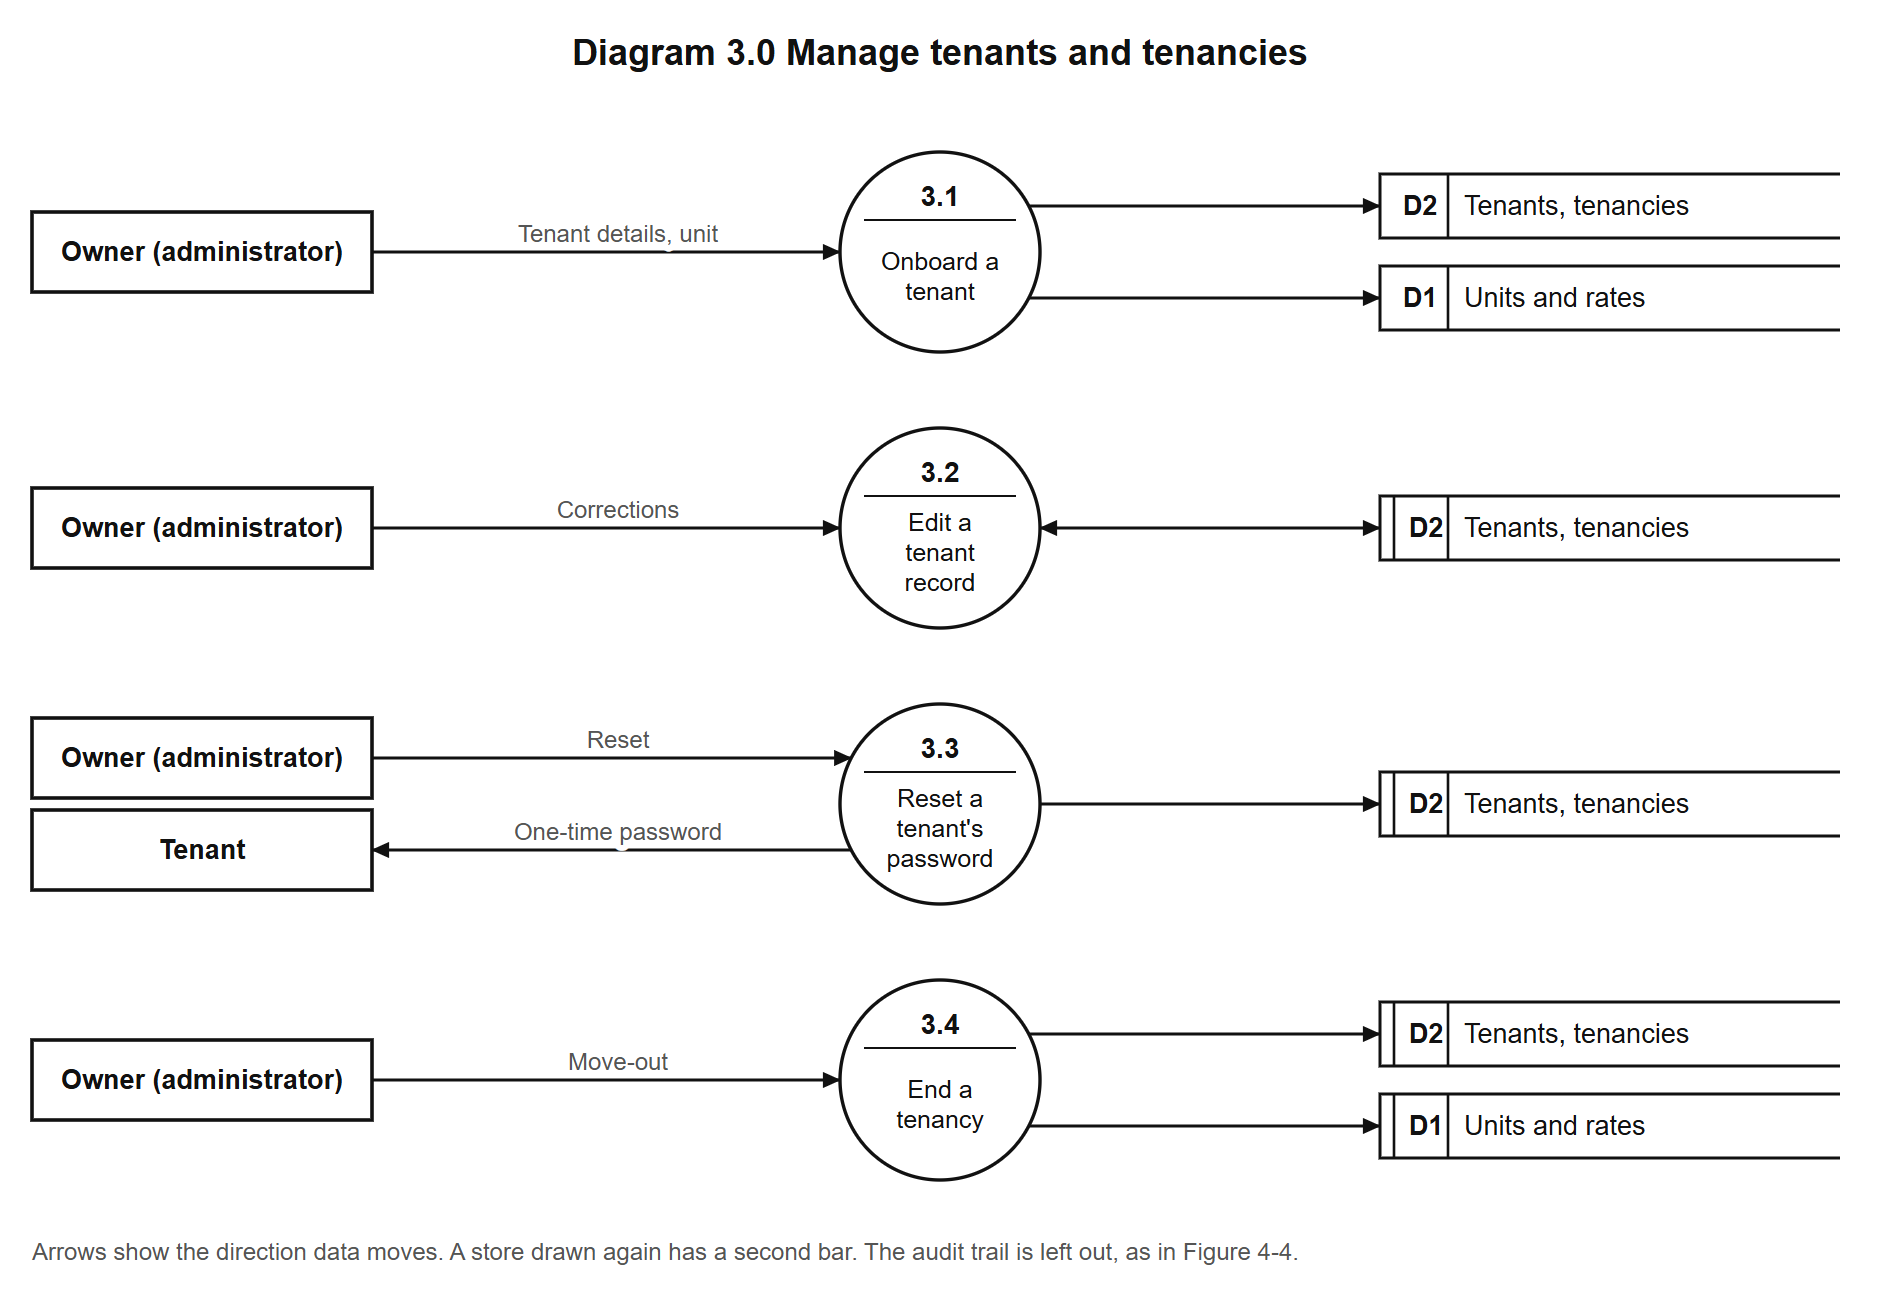
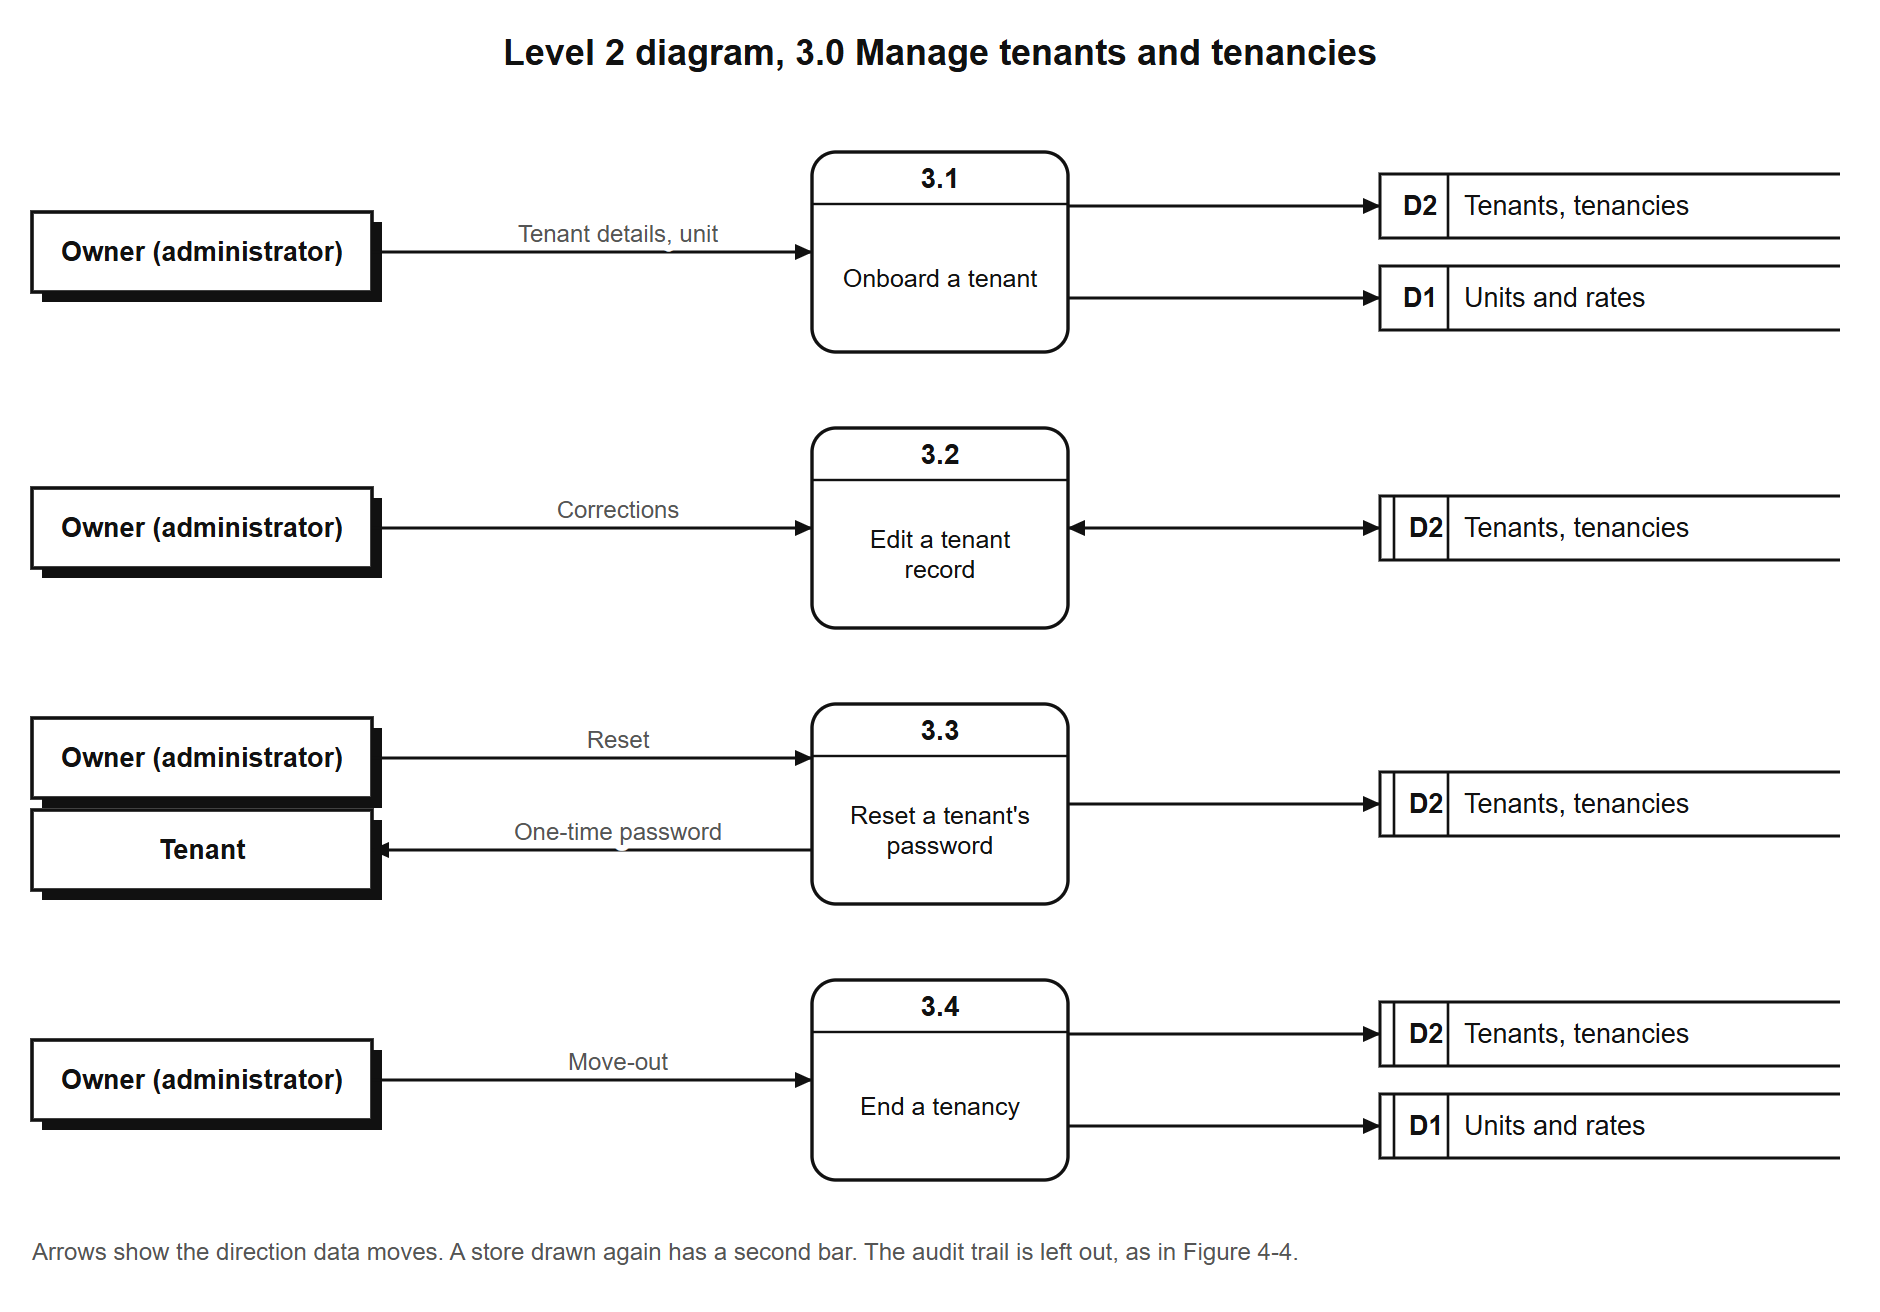
Data flow diagrams in Gane and Sarson notation, down to Level 2 for all eight processes
The IT 124 pre-defense clearance (Form 2, item 13, and Form 3B) asks for a data flow diagram in Gane
and Sarson notation down to Level 2. Ours were Yourdon-DeMarco circles, and Appendix F opened only
four of the eight processes. Processes are now rounded rectangles with the number in a top band and
external entities are shaded squares, in the context diagram, Level 1 and every Level 2 diagram.
Appendix F gains Level 2 diagrams for 2.0, 6.0, 7.0 and 8.0, read from the screens' calls in
SCREEN_CONTRACT.md, each touching only the stores its parent touches in Figure 7. Chapter 4 names
the notation and its symbols; the glossary and walkthrough follow.

diff --git a/FINAL/appendices/APPENDIX_F_CHILD_DATA_FLOW_DIAGRAMS.md b/FINAL/appendices/APPENDIX_F_CHILD_DATA_FLOW_DIAGRAMS.md
@@ -1,23 +1,39 @@
-# APPENDIX F: DATA FLOW DIAGRAMS (CHILD DIAGRAMS)
+# APPENDIX F: DATA FLOW DIAGRAMS (LEVEL 2)
 
-Figures F-1 to F-4 open four of the eight processes of the level 1 diagram (Figure 4-4) into their
-steps. Each step is one operation the system's screens perform, and the stores and external entities
-keep the names of Figure 4-4. Processes 2.0 (manage units and rates), 6.0 (record expenses), 7.0
-(produce reports) and 8.0 (sign in and manage one's own account) each perform a single operation and
-are not opened further.
+Figures F-1 to F-8 open each of the eight processes of the level 1 diagram (Figure 4-4) into its steps,
+in the Gane and Sarson notation used for Figures 4-3 and 4-4. A rounded rectangle is a process, with its
+number in the band across the top. A rectangle open on the right is a data store. A shaded square is
+an external entity. Each step is one operation the system's screens perform. The stores and external
+entities keep the names of Figure 4-4, and each diagram uses only the stores its process uses there.
 
-*Figure F-1. Diagram 1.0, handle inquiries.*
+*Figure F-1. Level 2 diagram of process 1.0, handle inquiries.*
 
 ![Diagram 1.0](<../../docs/FINAL MANUSCRIPT/figures/appendix-f-dfd-1-inquiries.png>)
 
-*Figure F-2. Diagram 3.0, manage tenants and tenancies.*
+*Figure F-2. Level 2 diagram of process 2.0, manage units and rates.*
+
+![Diagram 2.0](<../../docs/FINAL MANUSCRIPT/figures/appendix-f-dfd-2-units-and-rates.png>)
+
+*Figure F-3. Level 2 diagram of process 3.0, manage tenants and tenancies.*
 
 ![Diagram 3.0](<../../docs/FINAL MANUSCRIPT/figures/appendix-f-dfd-3-tenancies.png>)
 
-*Figure F-3. Diagram 4.0, bill and record payments.*
+*Figure F-4. Level 2 diagram of process 4.0, bill and record payments.*
 
 ![Diagram 4.0](<../../docs/FINAL MANUSCRIPT/figures/appendix-f-dfd-4-billing-and-payments.png>)
 
-*Figure F-4. Diagram 5.0, manage repair requests.*
+*Figure F-5. Level 2 diagram of process 5.0, manage repair requests.*
 
 ![Diagram 5.0](<../../docs/FINAL MANUSCRIPT/figures/appendix-f-dfd-5-repair-requests.png>)
+
+*Figure F-6. Level 2 diagram of process 6.0, record expenses.*
+
+![Diagram 6.0](<../../docs/FINAL MANUSCRIPT/figures/appendix-f-dfd-6-expenses.png>)
+
+*Figure F-7. Level 2 diagram of process 7.0, produce reports.*
+
+![Diagram 7.0](<../../docs/FINAL MANUSCRIPT/figures/appendix-f-dfd-7-reports.png>)
+
+*Figure F-8. Level 2 diagram of process 8.0, sign in and manage one's own account.*
+
+![Diagram 8.0](<../../docs/FINAL MANUSCRIPT/figures/appendix-f-dfd-8-account.png>)

diff --git a/FINAL/_src/appendices/APPENDIX_F_CHILD_DATA_FLOW_DIAGRAMS.md b/FINAL/_src/appendices/APPENDIX_F_CHILD_DATA_FLOW_DIAGRAMS.md
@@ -1,23 +1,39 @@
-# APPENDIX F: DATA FLOW DIAGRAMS (CHILD DIAGRAMS)
+# APPENDIX F: DATA FLOW DIAGRAMS (LEVEL 2)
 
-Figures F-1 to F-4 open four of the eight processes of the level 1 diagram (Figure 7) into their
-steps. Each step is one operation the system's screens perform, and the stores and external entities
-keep the names of Figure 7. Processes 2.0 (manage units and rates), 6.0 (record expenses), 7.0
-(produce reports) and 8.0 (sign in and manage one's own account) each perform a single operation and
-are not opened further.
+Figures F-1 to F-8 open each of the eight processes of the level 1 diagram (Figure 7) into its steps,
+in the Gane and Sarson notation used for Figures 6 and 7. A rounded rectangle is a process, with its
+number in the band across the top. A rectangle open on the right is a data store. A shaded square is
+an external entity. Each step is one operation the system's screens perform. The stores and external
+entities keep the names of Figure 7, and each diagram uses only the stores its process uses there.
 
-*Figure F-1. Diagram 1.0, handle inquiries.*
+*Figure F-1. Level 2 diagram of process 1.0, handle inquiries.*
 
 ![Diagram 1.0](figures/appendix-f-dfd-1-inquiries.png)
 
-*Figure F-2. Diagram 3.0, manage tenants and tenancies.*
+*Figure F-2. Level 2 diagram of process 2.0, manage units and rates.*
+
+![Diagram 2.0](figures/appendix-f-dfd-2-units-and-rates.png)
+
+*Figure F-3. Level 2 diagram of process 3.0, manage tenants and tenancies.*
 
 ![Diagram 3.0](figures/appendix-f-dfd-3-tenancies.png)
 
-*Figure F-3. Diagram 4.0, bill and record payments.*
+*Figure F-4. Level 2 diagram of process 4.0, bill and record payments.*
 
 ![Diagram 4.0](figures/appendix-f-dfd-4-billing-and-payments.png)
 
-*Figure F-4. Diagram 5.0, manage repair requests.*
+*Figure F-5. Level 2 diagram of process 5.0, manage repair requests.*
 
 ![Diagram 5.0](figures/appendix-f-dfd-5-repair-requests.png)
+
+*Figure F-6. Level 2 diagram of process 6.0, record expenses.*
+
+![Diagram 6.0](figures/appendix-f-dfd-6-expenses.png)
+
+*Figure F-7. Level 2 diagram of process 7.0, produce reports.*
+
+![Diagram 7.0](figures/appendix-f-dfd-7-reports.png)
+
+*Figure F-8. Level 2 diagram of process 8.0, sign in and manage one's own account.*
+
+![Diagram 8.0](figures/appendix-f-dfd-8-account.png)

diff --git a/FINAL/STUDY_GUIDE_PAPER_WALKTHROUGH.md b/FINAL/STUDY_GUIDE_PAPER_WALKTHROUGH.md
@@ -896,8 +896,8 @@ The section then has four labelled parts.
 
 **Figure 4-4. Level 1 data flow diagram.**
 - *What it shows*: the system opened into **eight processes** and **six data stores**, in the
-  **Yourdon-DeMarco notation** (circles are processes; open rectangles are stores; boxes are outside
-  parties).
+  **Gane and Sarson notation** (rounded rectangles are processes, rectangles open on the right are
+  stores, shaded squares are outside parties).
 - *How to read it*: processes 1.0 Handle inquiries, 2.0 Manage units and rates, 3.0 Manage tenants and
   tenancies, 4.0 Bill and record payments, 5.0 Manage repair requests, 6.0 Record expenses, 7.0 Produce
   reports, 8.0 Sign in, manage own account. Stores D1 Units and rates, D2 Tenants and tenancies, D3
@@ -1733,10 +1733,9 @@ Agile schedule as it really ran.
 
 **Appendix E. Data Flow Diagram (Level 1).** The same image as Figure 4-4.
 
-**Appendix F. Data Flow Diagrams (Child Diagrams).** Figures F-1 to F-4 open four of the eight level 1
-processes into their steps: **1.0 handle inquiries, 3.0 manage tenants and tenancies, 4.0 bill and
-record payments, 5.0 manage repair requests**. Processes 2.0, 6.0, 7.0 and 8.0 each do one operation, so
-they are not opened. A **child diagram** is a more detailed drawing of one process. It is there to show
+**Appendix F. Data Flow Diagrams (Level 2).** Figures F-1 to F-8 open each of the eight level 1
+processes into its steps, so the diagrams go down to Level 2 as Form 2 item 13 asks. A **Level 2
+diagram** is a more detailed drawing of one process. It is there to show
 the design one level deeper.
 
 **Appendix G. Use Case Diagram.** The same image as Figure 4-5.

diff --git a/FINAL/08_APPENDICES.md b/FINAL/08_APPENDICES.md
@@ -11,7 +11,7 @@ Chapter 4 cites K, M, N and O by letter, so those letters must not change.
 | C | Gantt Chart | The schedule as it ran: the first build, the three iterations, the Module 01 gap, and the dated events | `FINAL/appendices/APPENDIX_C_GANTT_CHART.md` |
 | D | Context Diagram | The as-built context diagram, the same image as Figure 4-3 | `docs/FINAL MANUSCRIPT/figures/figure-6-context-diagram.png` |
 | E | Data Flow Diagram (Level 1) | The as-built level 1 diagram, the same image as Figure 4-4 | `docs/FINAL MANUSCRIPT/figures/figure-7-data-flow-level-1.png` |
-| F | Data Flow Diagram (Child Diagrams) | Processes 1.0, 3.0, 4.0 and 5.0 opened into their steps | `FINAL/appendices/APPENDIX_F_CHILD_DATA_FLOW_DIAGRAMS.md` |
+| F | Data Flow Diagrams (Level 2) | All eight level 1 processes opened into their steps, in Gane and Sarson notation | `FINAL/appendices/APPENDIX_F_CHILD_DATA_FLOW_DIAGRAMS.md` |
 | G | Use Case Diagram | The as-built use case diagram, the same image as Figure 4-5 | `docs/FINAL MANUSCRIPT/figures/figure-8-use-case-diagram.png` |
 | H | Entity-Relationship Diagram | The as-built diagram, the same image as Figure 4-6 | `docs/FINAL MANUSCRIPT/figures/figure-9-entity-relationship.png` |
 | I | Initial Design | Four screens of the first working version, 28 August 2026 (the interface was prototyped in code, Section 3.1.1) | `FINAL/appendices/APPENDIX_I_INITIAL_DESIGN.md` |

diff --git a/FINAL/_src/APPENDICES.md b/FINAL/_src/APPENDICES.md
@@ -11,7 +11,7 @@ Chapter 4 cites K, M, N and O by letter, so those letters must not change.
 | C | Gantt Chart | The schedule as it ran: the first build, the three iterations, the Module 01 gap, and the dated events | `FINAL/appendices/APPENDIX_C_GANTT_CHART.md` |
 | D | Context Diagram | The as-built context diagram, the same image as Figure 6 | `docs/FINAL MANUSCRIPT/figures/figure-6-context-diagram.png` |
 | E | Data Flow Diagram (Level 1) | The as-built level 1 diagram, the same image as Figure 7 | `docs/FINAL MANUSCRIPT/figures/figure-7-data-flow-level-1.png` |
-| F | Data Flow Diagram (Child Diagrams) | Processes 1.0, 3.0, 4.0 and 5.0 opened into their steps | `FINAL/appendices/APPENDIX_F_CHILD_DATA_FLOW_DIAGRAMS.md` |
+| F | Data Flow Diagrams (Level 2) | All eight level 1 processes opened into their steps, in Gane and Sarson notation | `FINAL/appendices/APPENDIX_F_CHILD_DATA_FLOW_DIAGRAMS.md` |
 | G | Use Case Diagram | The as-built use case diagram, the same image as Figure 8 | `docs/FINAL MANUSCRIPT/figures/figure-8-use-case-diagram.png` |
 | H | Entity-Relationship Diagram | The as-built diagram, the same image as Figure 9 | `docs/FINAL MANUSCRIPT/figures/figure-9-entity-relationship.png` |
 | I | Initial Design | Four screens of the first working version, 28 August 2026 (the interface was prototyped in code, Section 3.1.1) | `FINAL/appendices/APPENDIX_I_INITIAL_DESIGN.md` |

diff --git a/FINAL/STUDY_GUIDE_GLOSSARY.md b/FINAL/STUDY_GUIDE_GLOSSARY.md
@@ -724,7 +724,7 @@ never written in any document; a check for them runs before every commit. **Wher
 meaning. **Where:** Table 4-5; App. N.
 
 **Data flow diagram (DFD).** A diagram of processes, data stores and outside parties, and the data
-moving between them. Level 1 has eight processes; child diagrams open four of them. **Where:**
+moving between them. Level 1 has eight processes, and the Level 2 diagrams open all eight. **Where:**
 Figure 4-4; App. E; App. F.
 
 **Data store.** In a DFD, a place data is kept, such as D3, Bills and receipts. **Where:**
@@ -949,8 +949,9 @@ the PWA. **Where:** Table 3-1; Table 4-4.
 **Webhook.** Adyen calling Hivelet's server to report a payment. See Section 4. **Where:**
 `STUDY_GUIDE_CODE.md`, §5.
 
-**Yourdon-DeMarco notation.** The drawing style of the data flow diagrams: circles for processes,
-open boxes for stores. **Where:** Section 4.2.1.
+**Gane and Sarson notation.** The drawing style of the data flow diagrams, the one Form 2 asks for:
+rounded rectangles for processes, rectangles open on the right for stores, shaded squares for outside
+parties. **Where:** Section 4.2.1.
 
 ---
 

diff --git a/FINAL/05_CHAPTER_4_RESULTS_AND_DISCUSSION.md b/FINAL/05_CHAPTER_4_RESULTS_AND_DISCUSSION.md
@@ -155,7 +155,8 @@ equipment beyond the owner's own laptop and phone.
 
 Figure 4-3 is the context diagram: the system as one process, with the four parties outside it and the
 data that passes between them. Figure 4-4 opens it into eight processes and the stores each reads and
-writes, in the Yourdon-DeMarco notation. To trace one path: the owner records a cash receipt through
+writes, in the Gane and Sarson notation: a rounded rectangle is a process, a rectangle open on
+the right is a data store, and a shaded square is a party outside the system. To trace one path: the owner records a cash receipt through
 process 4.0, Bill and record payments, which writes it to store D3, Bills and receipts, and process
 7.0, Produce reports, reads it from there for the Overview and the Excel workbooks. The notifications
 and the audit record are written by nearly every process and are left out of Figure 4-4 for

diff --git a/docs/FINAL MANUSCRIPT/CHAPTER_4_RESULTS_AND_DISCUSSION.md b/docs/FINAL MANUSCRIPT/CHAPTER_4_RESULTS_AND_DISCUSSION.md
@@ -167,7 +167,8 @@ equipment beyond the owner's own laptop and phone.
 
 Figure 6 is the context diagram: the system as one process, with the four parties outside it and the
 data that passes between them. Figure 7 opens it into eight processes and the stores each reads and
-writes, in the Yourdon-DeMarco notation. To trace one path: the owner records a cash receipt through
+writes, in the Gane and Sarson notation: a rounded rectangle is a process, a rectangle open on
+the right is a data store, and a shaded square is a party outside the system. To trace one path: the owner records a cash receipt through
 process 4.0, Bill and record payments, which writes it to store D3, Bills and receipts, and process
 7.0, Produce reports, reads it from there for the Overview and the Excel workbooks. The notifications
 and the audit record are written by nearly every process and are left out of Figure 7 for
